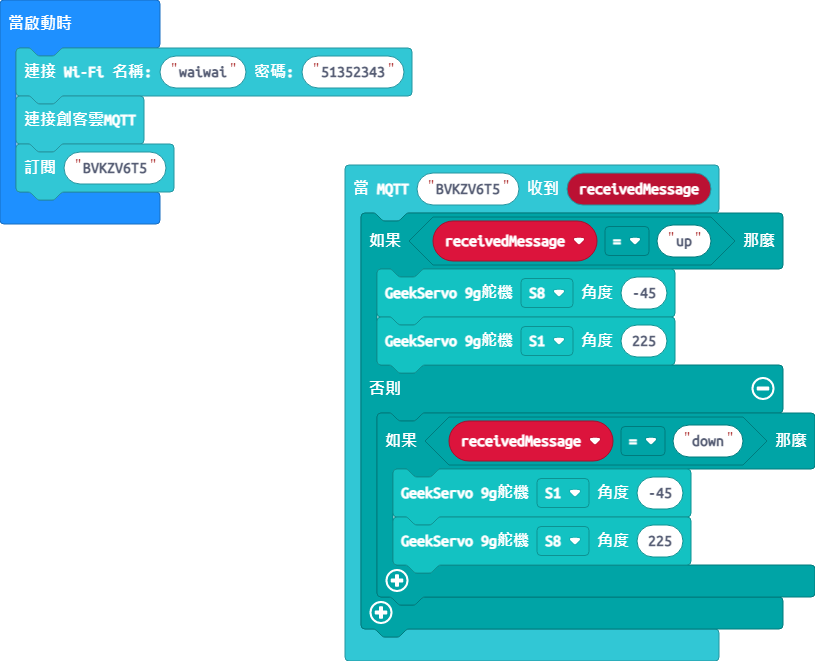
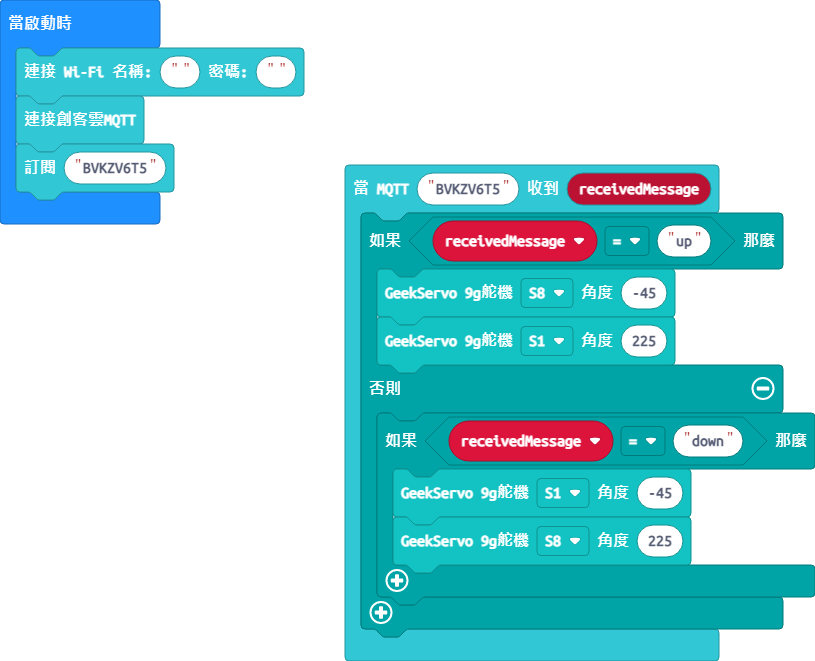
更新 main.blocks, main.ts

Changed region(s): [[0.2147, 0.0605, 0.5215, 0.1513]]

diff --git a/main.ts b/main.ts
@@ -9,6 +9,6 @@ MakerCloud_KOI.registerTopicMessageHandler("BVKZV6T5", function (receivedMessage
         }
     }
 })
-MakerCloud.setupWifi("waiwai", "51352343")
+MakerCloud.setupWifi("", "")
 MakerCloud_KOI.connectMakerCloudMQTT()
 MakerCloud_KOI.subscribeTopic("BVKZV6T5")
